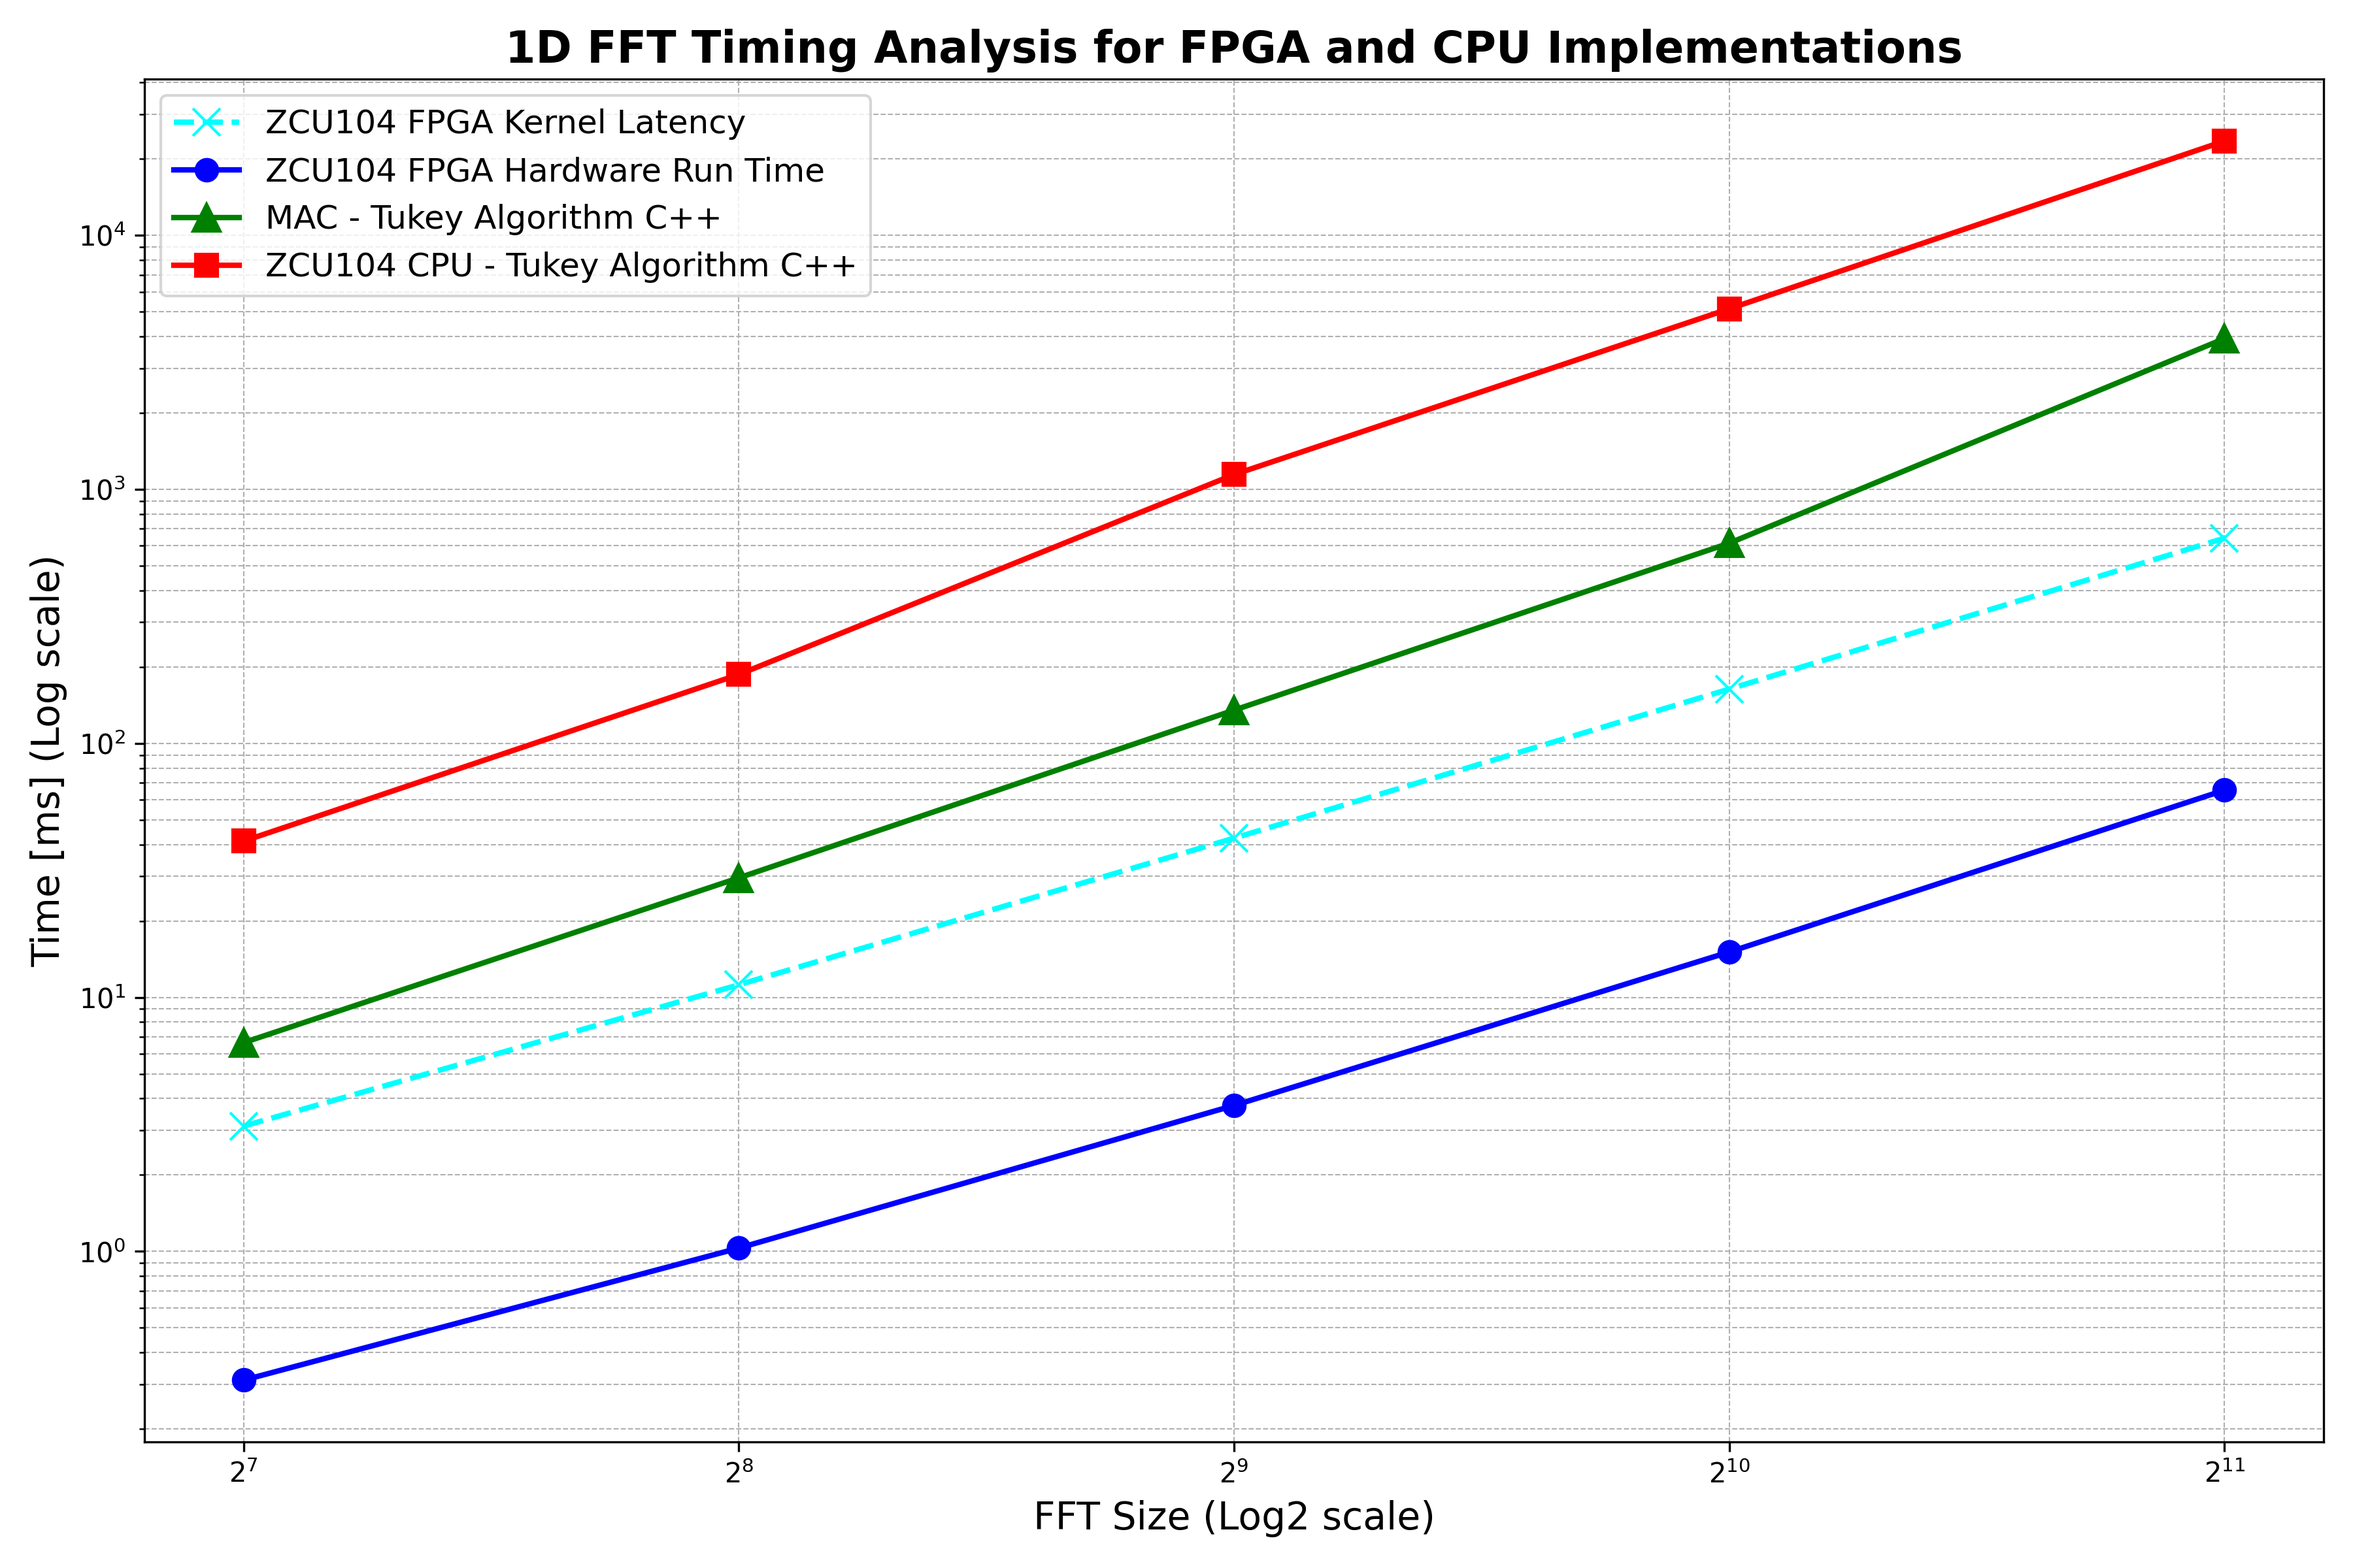
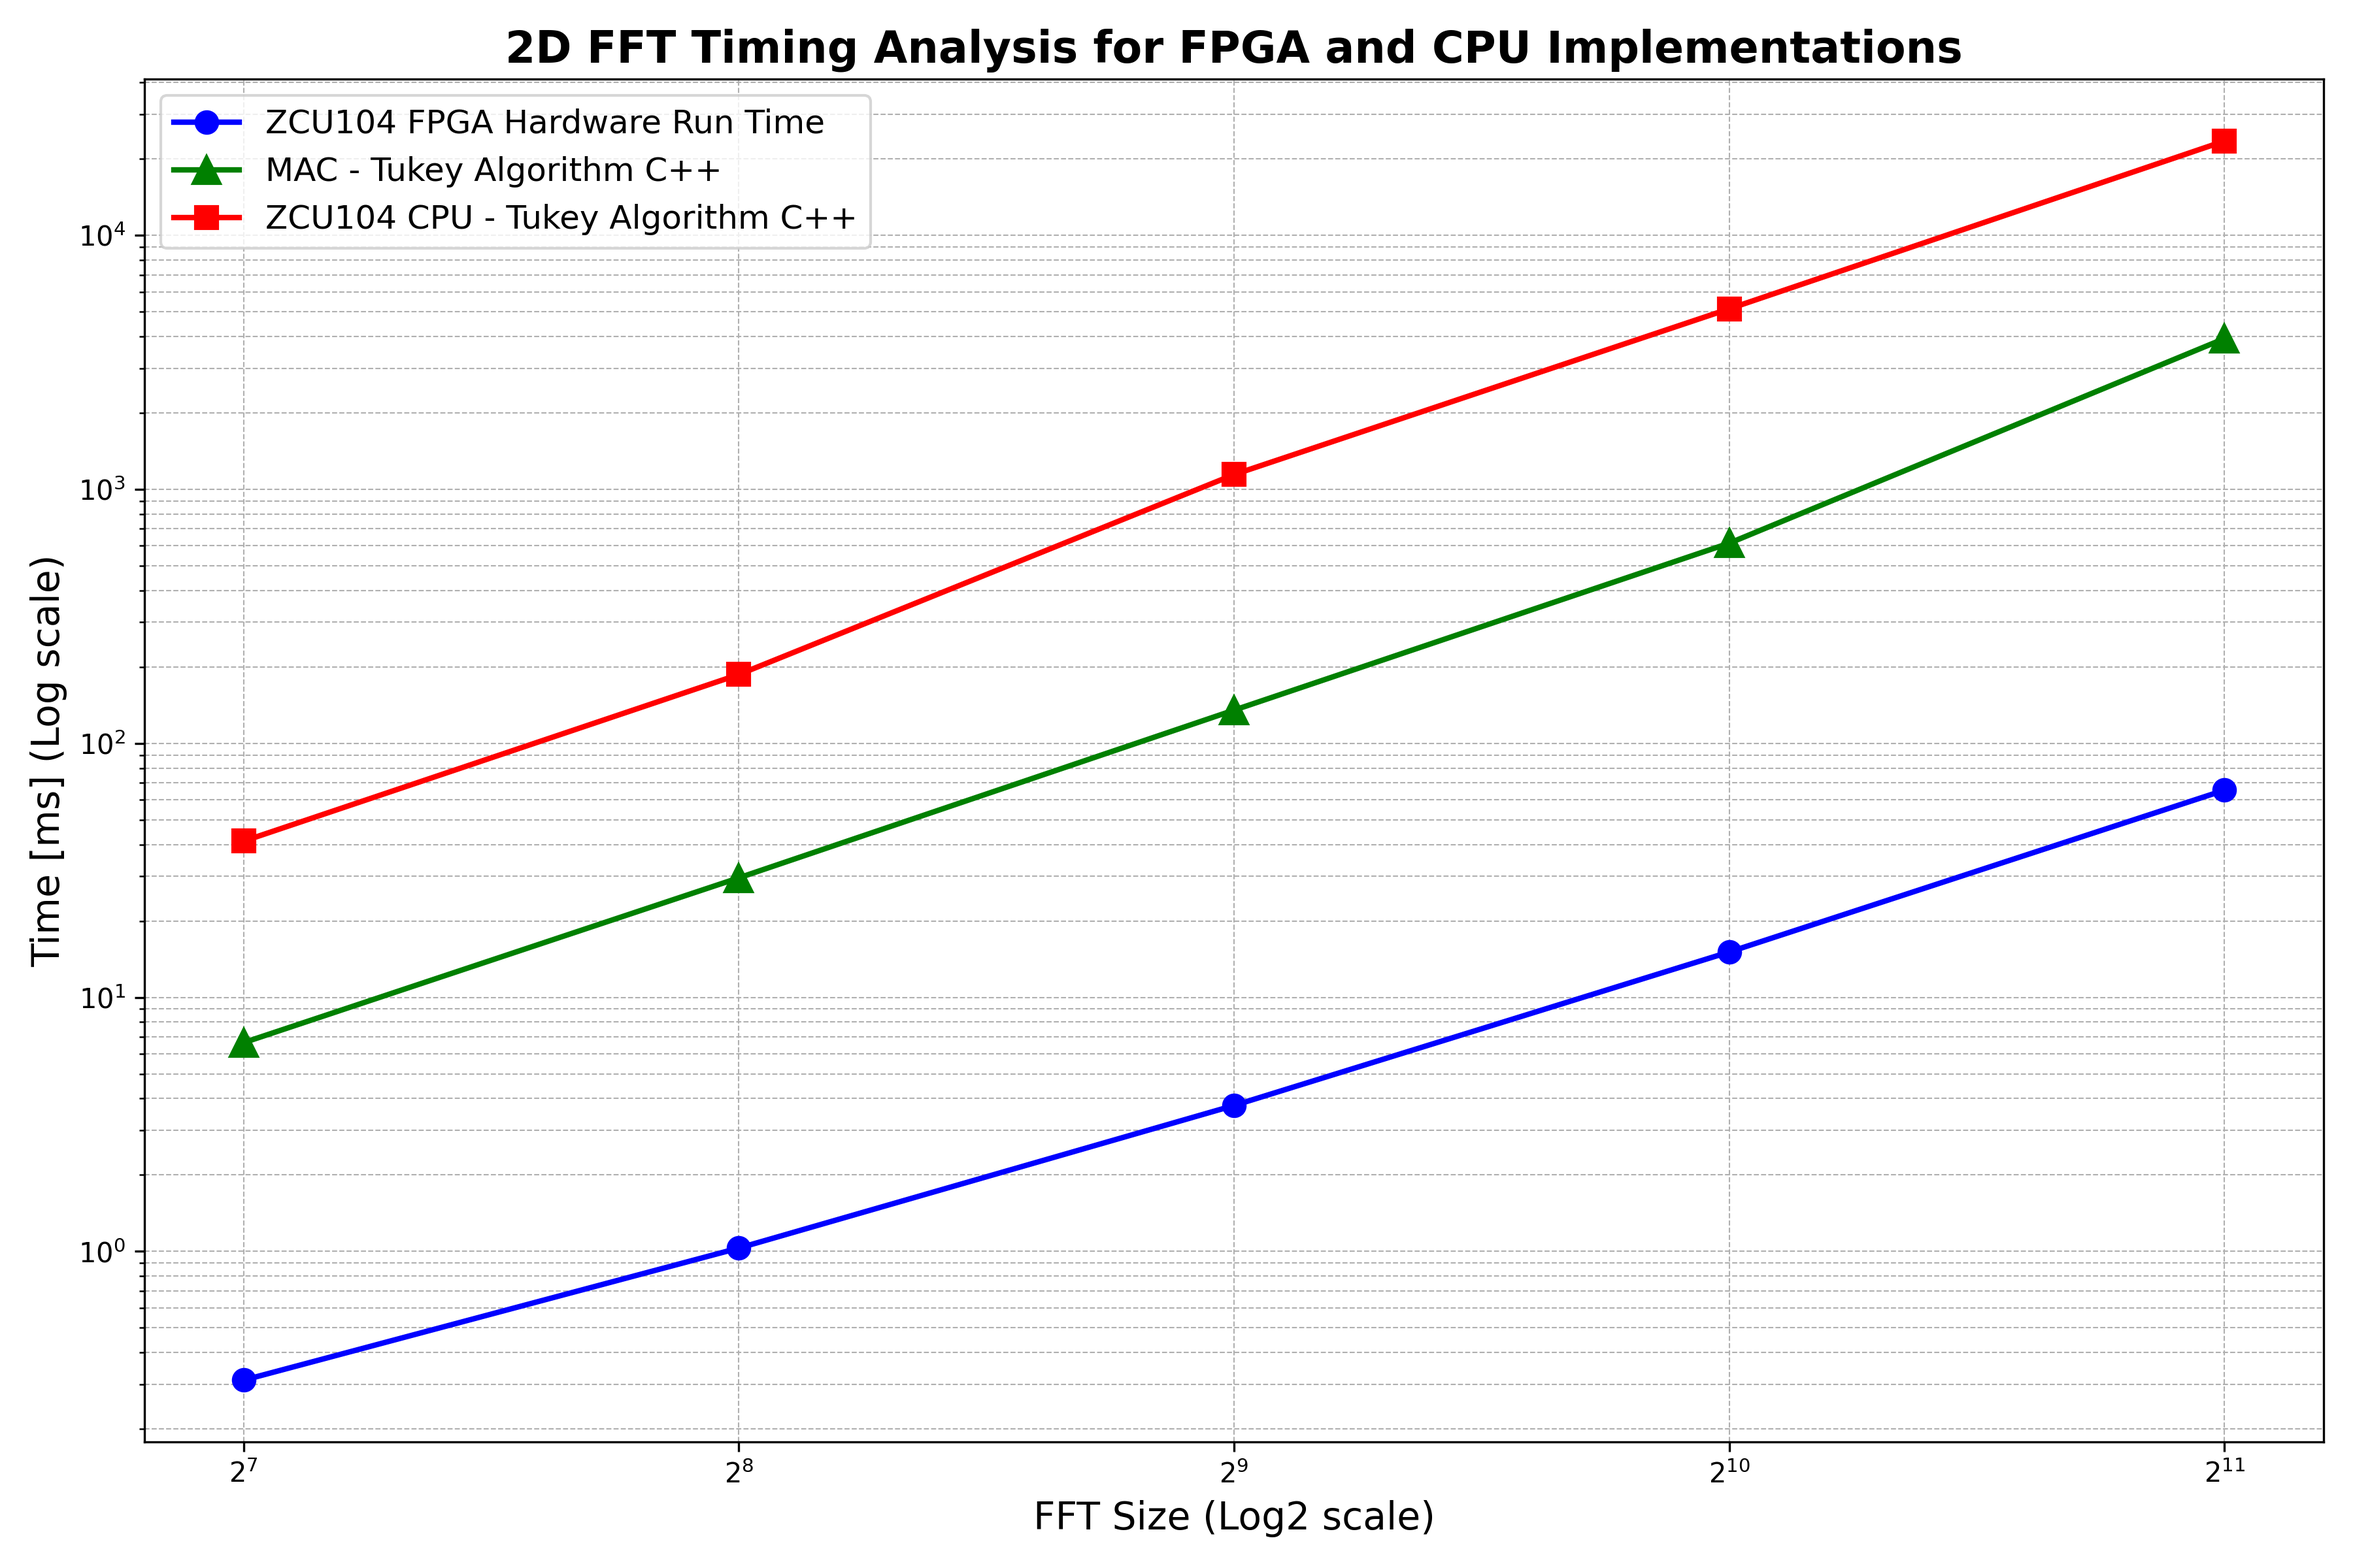
removed latency line from 2dfft timing graph

diff --git a/2D FFT/timing/fft2d_fpga_timing_graph.py b/2D FFT/timing/fft2d_fpga_timing_graph.py
@@ -4,13 +4,13 @@ import numpy as np
 # Data
 fft_size = [128, 256, 512, 1024, 2048]
 fpga_hw = [0.000311, 0.00103, 0.003753, 0.015089, 0.065435]
-fpga_latency = [311190 * 10e-9, 1120790 * 10e-9, 4235030 * 10e-9, 16364310 * 10e-9, 64297750 * 10e-9]
+# fpga_latency = [311190 * 10e-9, 1120790 * 10e-9, 4235030 * 10e-9, 16364310 * 10e-9, 64297750 * 10e-9]
 zcu_cpu = [0.041216, 0.186729, 1.144043, 5.142044, 23.538236]
 mac = [0.0066333, 0.0295523, 0.135167, 0.614293, 3.92586]
 
 # Convert time from seconds to milliseconds
 fpga_hw_ms = np.array(fpga_hw) * 1000
-fpga_latency_ms = np.array(fpga_latency) * 1000
+# fpga_latency_ms = np.array(fpga_latency) * 1000
 zcu_cpu_ms = np.array(zcu_cpu) * 1000
 mac_ms = np.array(mac) * 1000
 
@@ -18,7 +18,7 @@ mac_ms = np.array(mac) * 1000
 plt.figure(figsize=(12, 8))  # Increase figure size for better readability
 
 # Plot with improved styles
-plt.plot(fft_size, fpga_latency_ms, 'x--', label="ZCU104 FPGA Kernel Latency", color='cyan', markersize=10, linewidth=2)
+# plt.plot(fft_size, fpga_latency_ms, 'x--', label="ZCU104 FPGA Kernel Latency", color='cyan', markersize=10, linewidth=2)
 plt.plot(fft_size, fpga_hw_ms, 'o-', label="ZCU104 FPGA Hardware Run Time", color='blue', markersize=8, linewidth=2)
 plt.plot(fft_size, mac_ms, '^-', label="MAC - Tukey Algorithm C++", color='green', markersize=10, linewidth=2)
 plt.plot(fft_size, zcu_cpu_ms, 's-', label="ZCU104 CPU - Tukey Algorithm C++", color='red', markersize=8, linewidth=2)
@@ -28,7 +28,7 @@ plt.xscale('log', base=2)  # Log scale for FFT size
 plt.yscale('log')          # Log scale for time
 plt.xlabel("FFT Size (Log2 scale)", fontsize=14)
 plt.ylabel("Time [ms] (Log scale)", fontsize=14)
-plt.title("1D FFT Timing Analysis for FPGA and CPU Implementations", fontsize=16, fontweight='bold')
+plt.title("2D FFT Timing Analysis for FPGA and CPU Implementations", fontsize=16, fontweight='bold')
 plt.legend(loc='best', fontsize=12)
 plt.grid(True, which='both', linestyle='--', linewidth=0.5)
 plt.tight_layout()  # Adjust plot to fit labels and title
